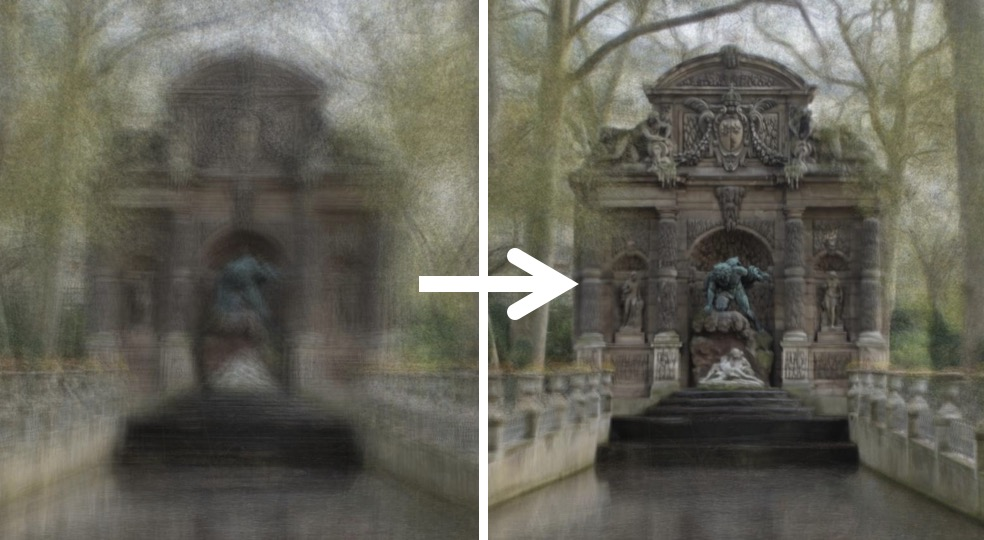
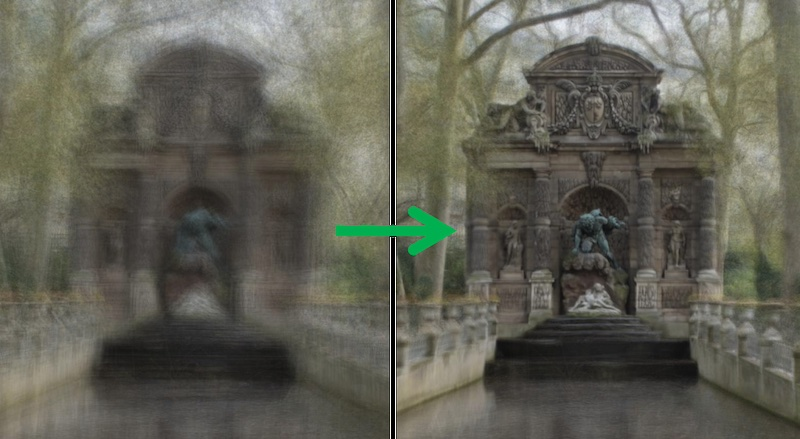
updated from script

Changed region(s): [[0.4062, 0.0, 0.5938, 1.0]]

diff --git a/index.html b/index.html
@@ -128,6 +128,48 @@
         <table style="width:100%;border:0px;border-spacing:0px;border-collapse:separate;margin-right:auto;margin-left:auto;"><tbody>
 
       
+        <tr>
+            <td style="padding:20px;width:25%;vertical-align:middle">
+                <img src="img/thumbnail-2026-metro.jpg" class="thumb">
+            </td>
+            <td style="padding:20px;width:75%;vertical-align:middle">
+                <papertitle>	Leveraging Morphology for Historical Script Metrological Analysis</papertitle>
+                <br>M. Vlachou Efstathiou*, R. Baena*, D Stutzmann, M Aubry
+                <br> ICDAR 2026
+                <br> <a href="https://arxiv.org/abs/2606.09446" target="_blank">paper</a>
+                | <a href="https://malamatenia.github.io/morphology4metrology-analysis/" target="_blank"> website </a>
+                <p></p>
+            </td>
+        </tr>
+
+        <tr>
+            <td style="padding:20px;width:25%;vertical-align:middle">
+                <img src="img/thumbnail-2026-diag.jpg" class="thumb">
+            </td>
+            <td style="padding:20px;width:75%;vertical-align:middle">
+                <papertitle> Text region detection in historical astronomical diagrams </papertitle>
+                <br>S. Baltacı*, R. Baena*, F. Meng, S. Norindr, F. Somer, M. Husson, M. Aubry
+                <br> ICDAR 2026
+                <br> <a href="https://arxiv.org/abs/2606.15886" target="_blank">paper</a>
+                | <a href="https://imagine.enpc.fr/~sonat.baltaci/textindiagrams/" target="_blank"> website </a>
+                <p></p>
+            </td>
+        </tr>
+      
+        <tr>
+            <td style="padding:20px;width:25%;vertical-align:middle">
+                <img src="img/thumbnail-2026-dti.jpg" class="thumb">
+            </td>
+            <td style="padding:20px;width:75%;vertical-align:middle">
+                <papertitle>	Deep Sprite-based Image Models: An Analysis </papertitle>
+                <br>S. Baltaci, R. Loiseau, M. Aubry
+                <br> TMLR 2026
+                <br> <a href="https://arxiv.org/abs/2604.19480" target="_blank">paper</a>
+                | <a href="https://imagine.enpc.fr/~sonat.baltaci/deepsprite/" target="_blank"> website </a>
+                <p></p>
+            </td>
+        </tr>
+      
         <tr class="highlight">
             <td style="padding:20px;width:25%;vertical-align:middle">
                 <img src="img/thumbnail-2026-impact.jpg" class="thumb">
@@ -150,7 +192,7 @@
             <td style="padding:20px;width:75%;vertical-align:middle">
                 <papertitle>	AIKON: A Modular Computer Vision Platform for Historical Corpora </papertitle>
                 <br>S. Albouy, S. Norindr, P. Kervegan, F. Aouinti, C. Grometto, R. Champenois, A. Guilbaud, M. Husson, S. Lazaris, M. Aubry
-                <br> HAL 2025, to appear in IJDAR 2026
+                <br>  IJDAR 2026
                 <br> <a href="https://hal.science/hal-05248250v1/document" target="_blank">paper</a>
                 | <a href="https://aikon-platform.github.io/" target="_blank"> project and demo </a>
                 <p></p>
